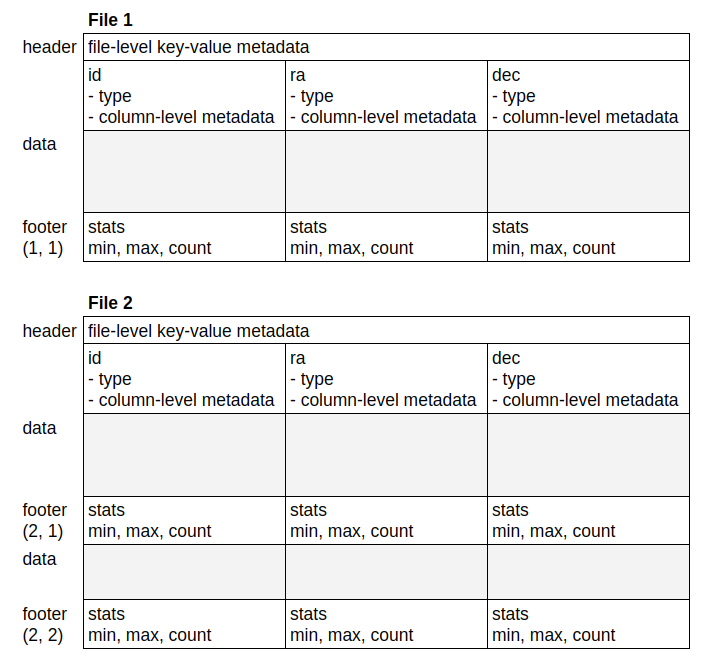
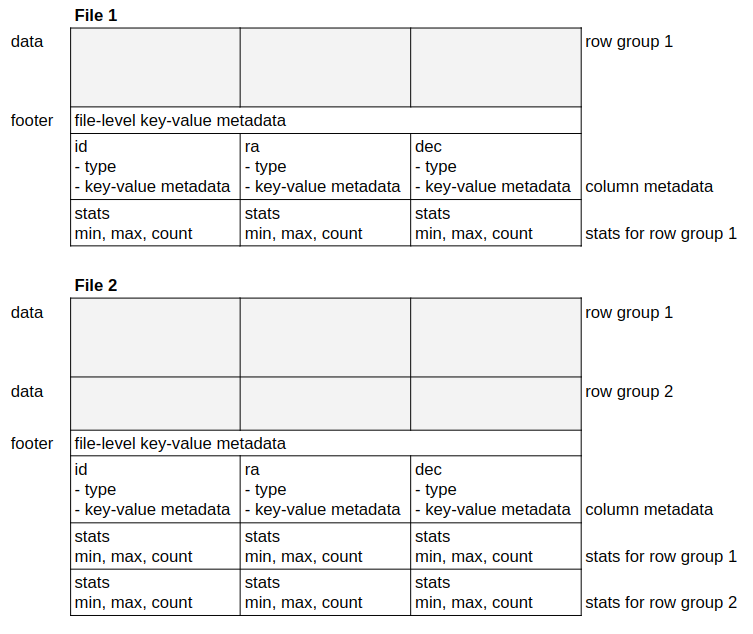
Better description of parquet storage.

Changed region(s): [[0.0, 0.4196, 0.9832, 0.989], [0.0, 0.0, 0.9832, 0.3896]]

diff --git a/hats-ivoa.tex b/hats-ivoa.tex
@@ -546,18 +546,22 @@ This file is OPTIONAL and RECOMMENDED for object catalogs.
 
 Many Parquet reading frameworks support and recommend additional dataset-level metadata files:
 \begin{itemize}
-    \item \texttt{\_common\_metadata} which contains the full schema of the dataset, and can be thought of as extensive header information. 
-    This file will know all of the columns and their types, as well as any top-level key-value metadata associated with the full Parquet dataset.
-    \item \texttt{\_metadata} contains per-partition information, chiefly the Parquet footer information of all constituent Parquet files which contain aggregate statistics.
+    \item \texttt{\_common\_metadata} which contains the full schema of the dataset. 
+    This file will know all of the columns and their types, as well as any file-level key-value metadata associated with the full Parquet dataset.
+    \item \texttt{\_metadata} contains per-partition information, chiefly the storage information and column metadata and statistics.
 \end{itemize}
 
 Both files are OPTIONAL and RECOMMENDED for all catalogs.
 
 To understand the importance of these files, it is helpful to understand the structure of partitioned Parquet files. 
 Figure~\ref{fig:partitionedParquet} shows a schematic of two partitioned Parquet files. 
-There is some top-level metadata that may describe the full dataset, as well as column-level key-value metadata.
+
 The data values are shown in gray, and typically will take up most of the space of the Parquet file. 
-Parquet files will also have footers which may contain aggregate statistics about each column (min value, max value, count of valid values).
+Data is stored and compressed on disk per "row group".
+File 1 contains less data, and it all fits into a single row group.
+File 2 contains more data, and is split on disk into two row groups. 
+All of the metadata is stored inside the file footer. There is some file-level metadata that may describe the full dataset, as well as column-level key-value metadata.
+Parquet files MAY also have aggregate statistics about values in each column (minimum value, maximum value, count of valid values).
 
 \begin{figure}
 \centering
@@ -566,10 +570,10 @@ Parquet files will also have footers which may contain aggregate statistics abou
 \label{fig:partitionedParquet}
 \end{figure}
 
-For very large datasets, it is helpful to have a single file that holds the common header information in all of the partitioned Parquet files (assuming that they have homogeneous structure).
+For very large datasets, it is helpful to have a single file that holds the common data schema information in all of the partitioned Parquet files (assuming that they have homogeneous structure).
 This \texttt{\_common\_metadata} file can be much smaller (and so faster to read) than a leaf Parquet file.
-The footers, however, will be different for every file, and some files may contain multiple footers if the data inside a single file is very large.
-These footers can be concatenated into a single \texttt{\_metadata} file, and can provide valuable insight into the distribution of the data. 
+The column statistics, however, will be different for every file, and some files may contain multiple statistics segments if the data inside a single file is very large and requires multiple row groups.
+These statistics can be concatenated into a single \texttt{\_metadata} file, and can provide valuable insight into the distribution of the data. 
 A clever Parquet reader can use this information to filter queries to only those partitions where certain values are possible.
 See Figure~\ref{fig:parquetMetadata} for the layout of these Parquet metadata files.
 
